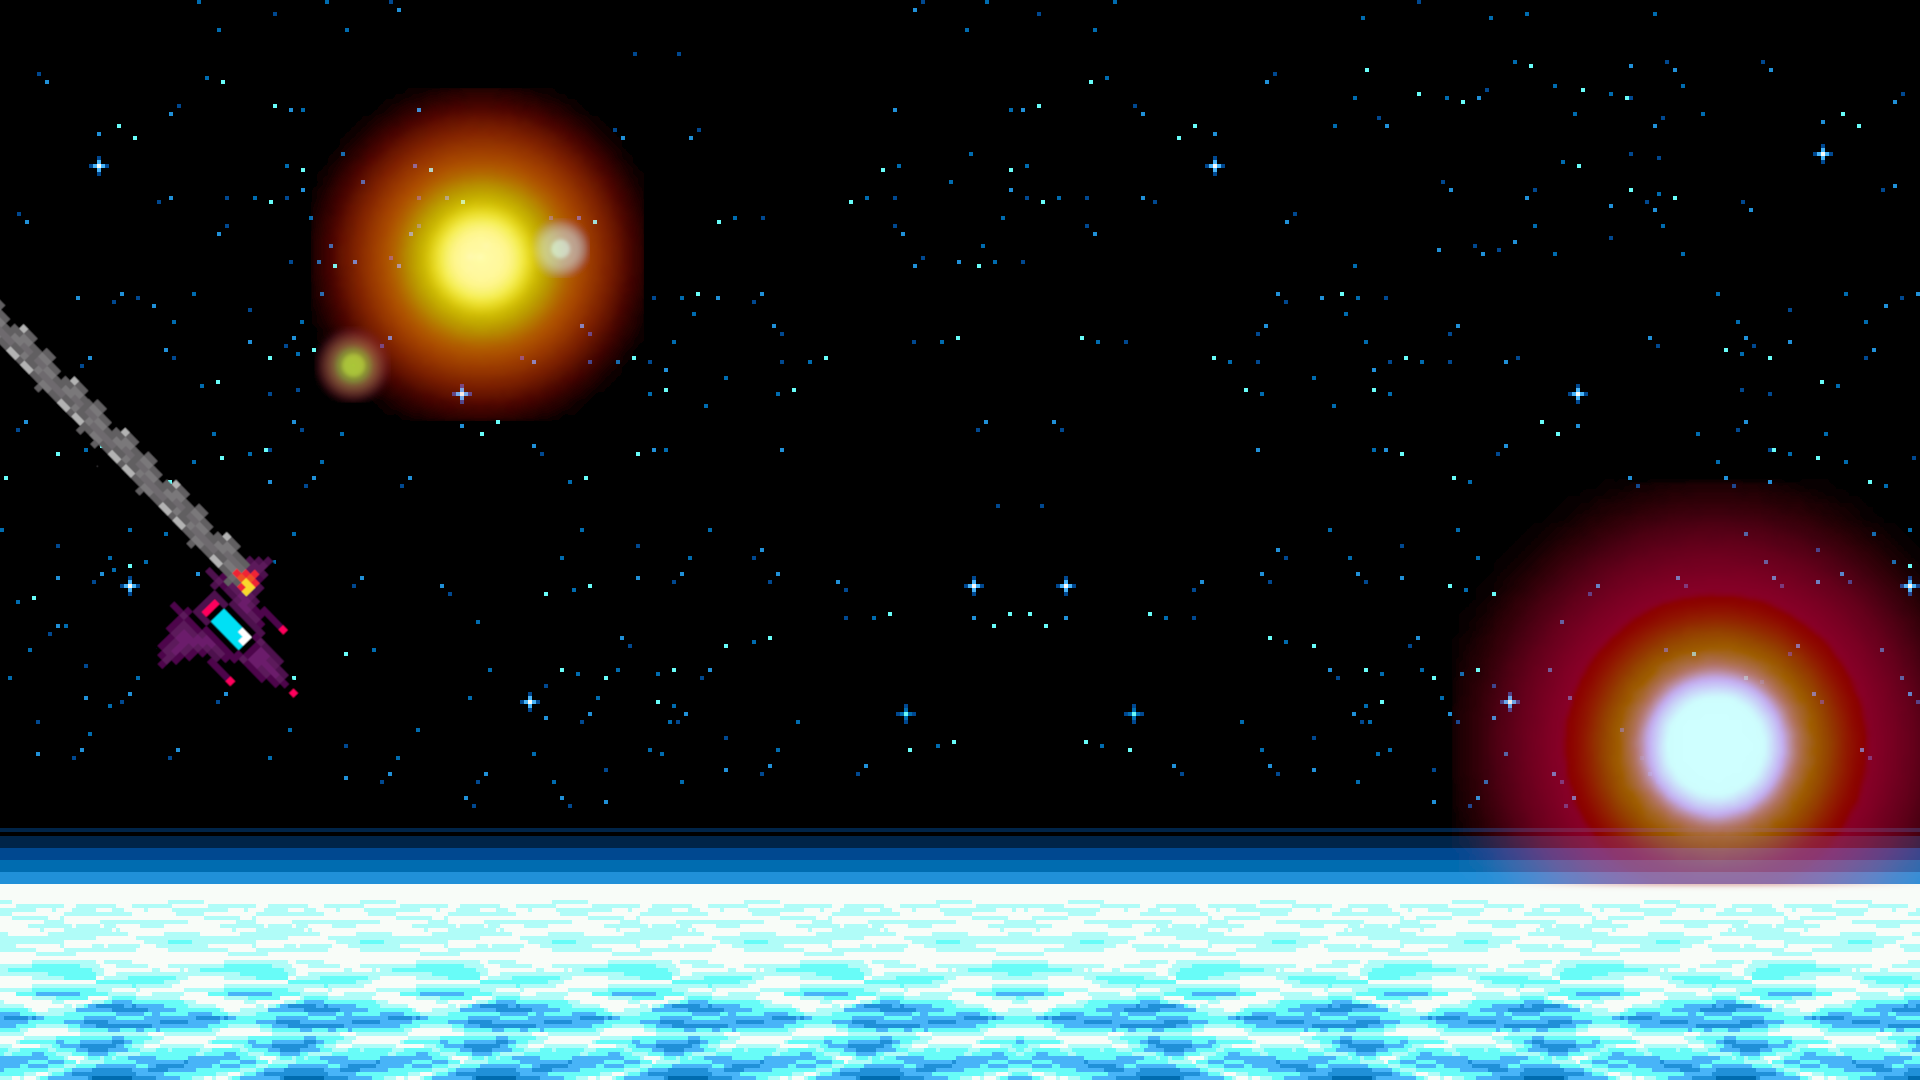
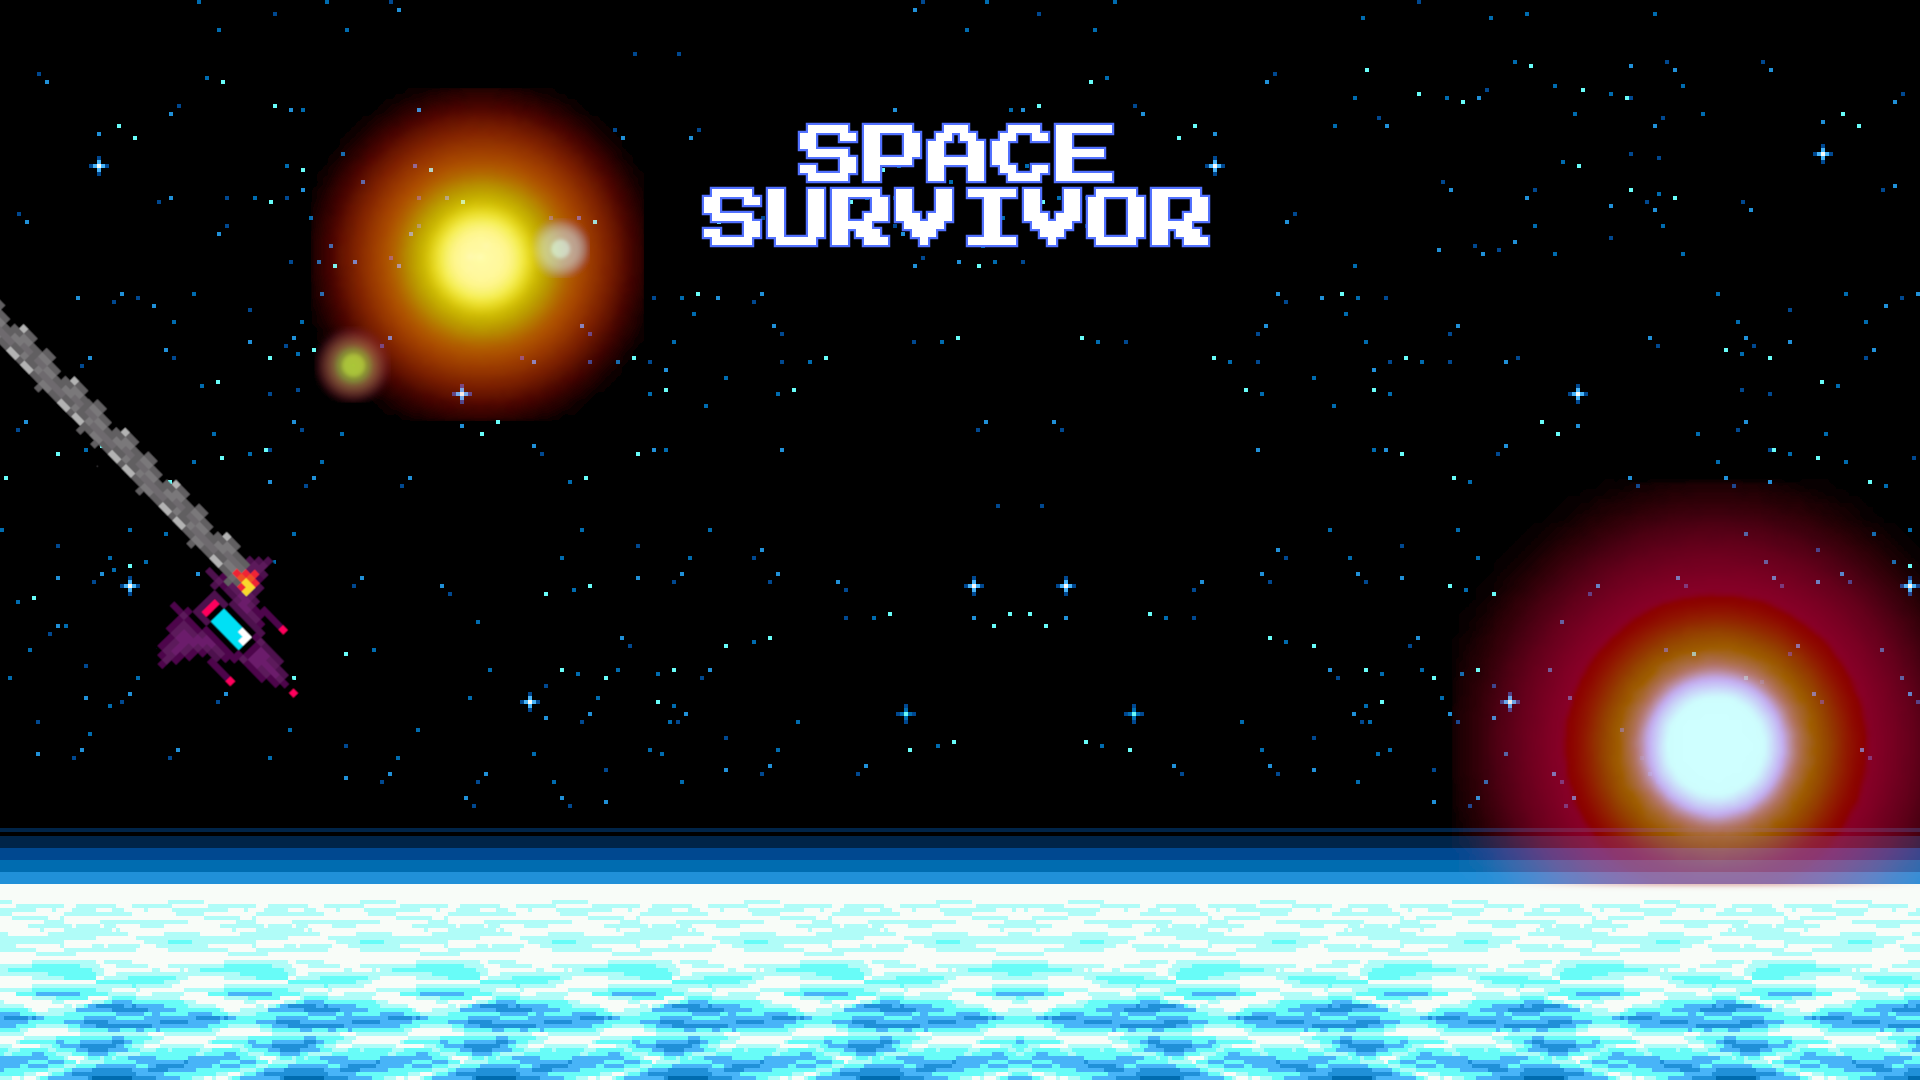
feat: hoverbutton color + titleBackground

Changed region(s): [[0.3438, 0.0917, 0.6562, 0.2444]]

diff --git a/core/src/main/java/io/github/spaceSurvivor/Screens/MainMenuScreen.java b/core/src/main/java/io/github/spaceSurvivor/Screens/MainMenuScreen.java
@@ -35,7 +35,7 @@ public class MainMenuScreen implements Screen {
         this.game = game;
         stage = new Stage(new ScreenViewport());
         backgroundTexture = new Texture("background.png");
-        font = new BitmapFont();
+        font = new BitmapFont(Gdx.files.internal("fonts/MyFont.fnt"));
         batch = new SpriteBatch();
 
         TextButton.TextButtonStyle playButtonStyle = new TextButton.TextButtonStyle();
@@ -59,17 +59,21 @@ public class MainMenuScreen implements Screen {
         quitButtonStyle.down = quitButtonStyle.up;
         quitButtonStyle.over = quitButtonStyle.up;
 
+        Color hoverColor = new Color(82/255f, 113/255f, 255/255f, 1);
+        Color clickedColor = new Color(122/255f, 151/255f, 255/255f, 1);
+
+
         playButtonStyle.fontColor = Color.WHITE;
-        playButtonStyle.downFontColor = Color.GRAY;
-        playButtonStyle.overFontColor = Color.RED;
+        playButtonStyle.downFontColor = clickedColor;
+        playButtonStyle.overFontColor = hoverColor;
 
         optionsButtonStyle.fontColor = Color.WHITE;
-        optionsButtonStyle.downFontColor = Color.GRAY;
-        optionsButtonStyle.overFontColor = Color.RED;
+        optionsButtonStyle.downFontColor = clickedColor;
+        optionsButtonStyle.overFontColor = hoverColor;
 
         quitButtonStyle.fontColor = Color.WHITE;
-        quitButtonStyle.downFontColor = Color.GRAY;
-        quitButtonStyle.overFontColor = Color.RED;
+        quitButtonStyle.downFontColor = clickedColor;
+        quitButtonStyle.overFontColor = hoverColor;
 
         TextButton playButton = new TextButton("Play", playButtonStyle);
         TextButton optionsButton = new TextButton("Options", optionsButtonStyle);
@@ -113,7 +117,6 @@ public class MainMenuScreen implements Screen {
         stage.addActor(table);
         Gdx.input.setInputProcessor(stage);
 
-        table.debugAll();
 
     }
 
@@ -121,14 +124,12 @@ public class MainMenuScreen implements Screen {
         button.addListener(new InputListener() {
             @Override
             public void enter(InputEvent event, float x, float y, int pointer, Actor fromActor) {
-                // Agrandir la police au survol
                 button.getLabel().getStyle().font.getData().setScale(1.2f);
                 button.getLabel().invalidateHierarchy();
             }
 
             @Override
             public void exit(InputEvent event, float x, float y, int pointer, Actor toActor) {
-                // Réinitialiser la taille de la police
                 button.getLabel().getStyle().font.getData().setScale(1.0f);
                 button.getLabel().invalidateHierarchy();
             }
@@ -151,12 +152,6 @@ public class MainMenuScreen implements Screen {
 
         stage.act(delta);
         stage.draw();
-
-        batch.begin();
-        font.getData().setScale(3f);
-        font.draw(batch, "Space Survivor", Gdx.graphics.getWidth() / 2 - 150, Gdx.graphics.getHeight() - 50);
-        batch.end();
-
     }
 
     @Override
